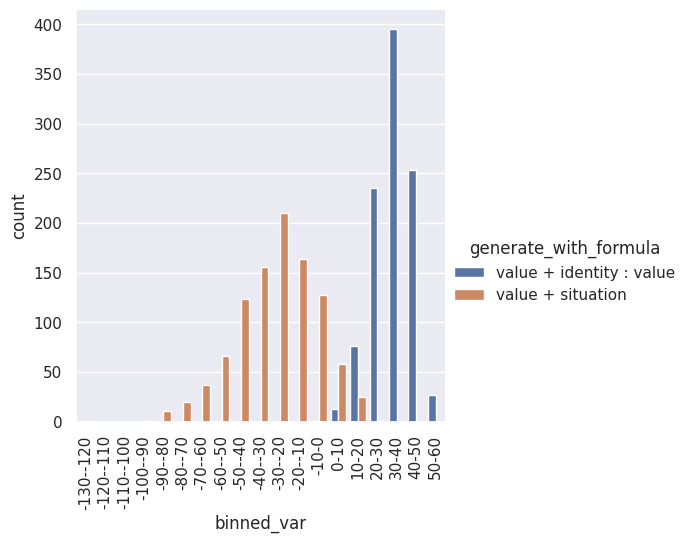
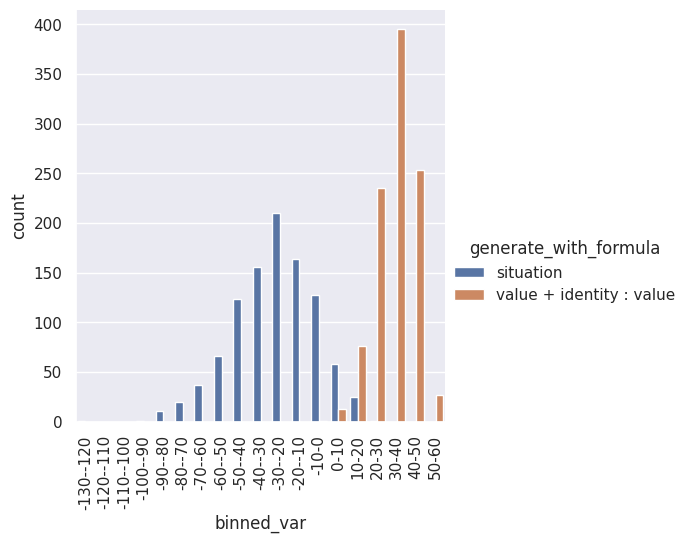
update 6 files

Changed region(s): [[0.2134, 0.0589, 0.6401, 0.7956], [0.701, 0.4715, 0.9753, 0.5599]]

diff --git a/Simulations/neurons_analysis/utils.py b/Simulations/neurons_analysis/utils.py
@@ -307,7 +307,7 @@ def model_recovery(config):
         formula=config["generate_with_formula"],
     )
 
-    # if config["generate_with_formula"] == "value + situation":
+    # if config["generate_with_formula"] == "situation":
     #     # Extract the parameters from the regression results
     #     params = reg_results.params
 
@@ -765,14 +765,14 @@ def plot_confusion_matrix(df):
             "generate_with_formula": [
                 "value + identity : value",
                 "value + identity : value",
-                "value + situation",
-                "value + situation",
+                "situation",
+                "situation",
             ],
             "fit_generated_data_with_formula": [
                 "value + identity : value",
-                "value + situation",
+                "situation",
                 "value + identity : value",
-                "value + situation",
+                "situation",
             ],
             "count": [0, 0, 0, 0],
         }
@@ -789,7 +789,7 @@ def plot_confusion_matrix(df):
                     df["fit_generated_data_with_formula"] == "value + identity : value"
                 ]["sum_aic"].item()
                 < two_rows[
-                    df["fit_generated_data_with_formula"] == "value + situation"
+                    df["fit_generated_data_with_formula"] == "situation"
                 ]["sum_aic"].item()
             ):
                 confusion_matrix.loc[
@@ -805,7 +805,7 @@ def plot_confusion_matrix(df):
                     (confusion_matrix["generate_with_formula"] == generate_with_formula)
                     & (
                         confusion_matrix["fit_generated_data_with_formula"]
-                        == "value + situation"
+                        == "situation"
                     ),
                     "count",
                 ] += 1
@@ -840,7 +840,7 @@ def plot_difference_histogram(df, bin_size=10):
         ["generate_with_formula", "seed"],
         lambda df: {
             "delta_sum_aic": df[
-                df["fit_generated_data_with_formula"] == "value + situation"
+                df["fit_generated_data_with_formula"] == "situation"
             ]["sum_aic"].item()
             - df[df["fit_generated_data_with_formula"] == "value + identity : value"][
                 "sum_aic"
@@ -850,7 +850,7 @@ def plot_difference_histogram(df, bin_size=10):
 
     df_calculate_difference = df.copy()
     df_calculate_difference = df_calculate_difference[
-        df["generate_with_formula"] == "value + situation"
+        df["generate_with_formula"] == "situation"
     ]
     # the below are sum_aic fit with real data
     #                                formula      sum_aic
@@ -858,7 +858,7 @@ def plot_difference_histogram(df, bin_size=10):
     # 1                     value + identity  3329.612571
     # 2  value + identity + identity : value  3297.428108
     # 3             value + identity : value  3272.965026
-    # 4                    value + situation  3289.791104
+    # 4                    situation  3289.791104
     df_calculate_difference = df_calculate_difference[
         df_calculate_difference["delta_sum_aic"] > (3289.791104 - 3272.965026)
     ]
